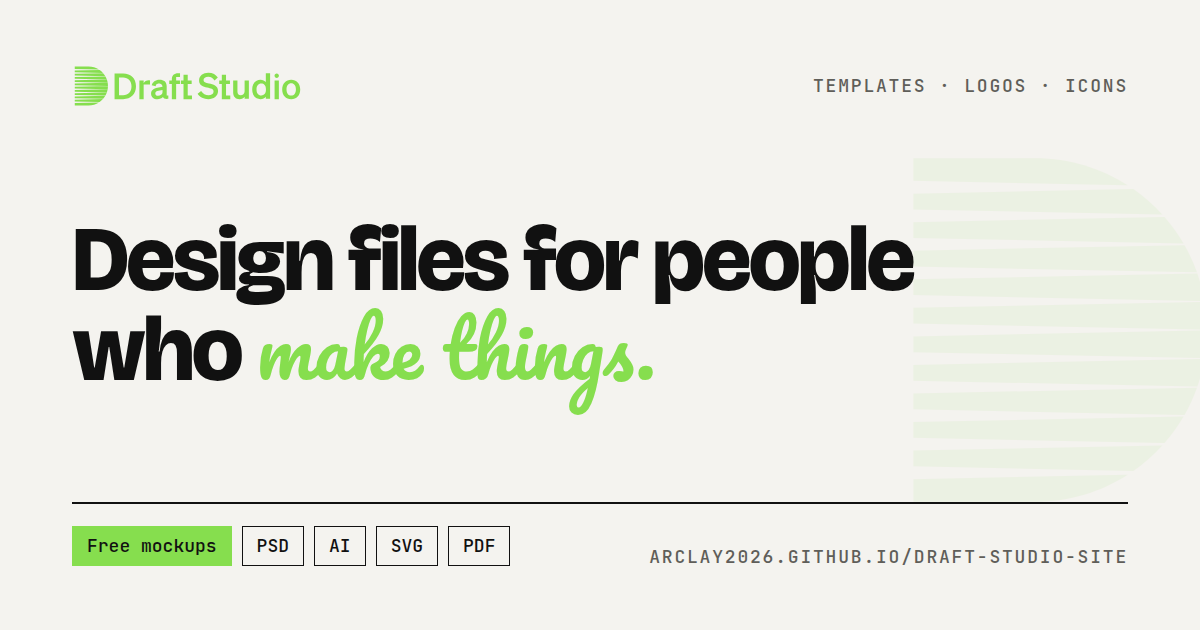
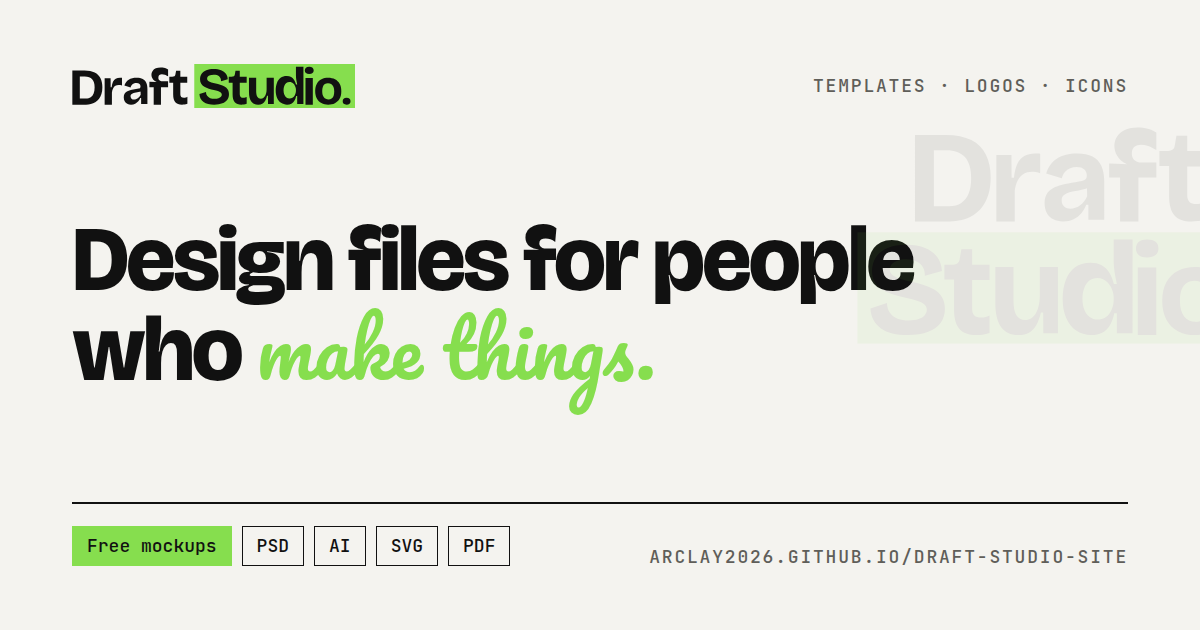
Replace the striped D with the new stacked brand mark site-wide
Crop the uploaded light/dark brand marks into assets/logo-mark(-dark).svg
and use them for the 3D seal (swaps with the theme, subtler extrusion),
the creator card, the QR maker's mark button, the favicon and the
link-preview image. Originals kept in assets/brand/.

Claude-Session: https://claude.ai/code/session_019HhhZ4dCFMmcVzfwBYgkR3

Changed region(s): [[0.0617, 0.0905, 0.3083, 0.181]]

diff --git a/index.html b/index.html
@@ -22,7 +22,7 @@
 <link rel="preconnect" href="https://fonts.googleapis.com">
 <link rel="preconnect" href="https://fonts.gstatic.com" crossorigin>
 <link href="https://fonts.googleapis.com/css2?family=Bricolage+Grotesque:opsz,wght@12..96,400..800&family=Pacifico&family=JetBrains+Mono:wght@400;500&display=swap" rel="stylesheet">
-<link rel="stylesheet" href="css/archive.css?v=537a0c07a1">
+<link rel="stylesheet" href="css/archive.css?v=c94d05d58d">
 </head>
 <body data-page="home">
 <a class="skip" href="#main">Skip to content</a>
@@ -58,7 +58,7 @@
       <span class="wall-caption vlabel label" aria-hidden="true">Plates in motion — hover to pause</span>
       <div class="seal" aria-hidden="true">
         <svg class="seal-ring" viewBox="0 0 156 156"><defs><path id="ring" d="M78,78 m-64,0 a64,64 0 1,1 128,0 a64,64 0 1,1 -128,0"/></defs><text><textPath href="#ring">DRAFT STUDIO ✦ OPEN ARCHIVE ✦ VOL. 01 ✦ </textPath></text></svg>
-        <div class="seal-core"><div class="logo3d-obj" data-src="assets/logo-mark.svg"></div></div>
+        <div class="seal-core"><div class="logo3d-obj" data-src="assets/logo-mark.svg" data-src-dark="assets/logo-mark-dark.svg"></div></div>
       </div>
     </div>
   </section>
@@ -137,7 +137,7 @@
     <div class="studio" style="margin-top:var(--s6)">
       <blockquote data-reveal>“Good templates are <b>starting points,</b> not shortcuts. Take them apart. Make them yours.”</blockquote>
       <div class="creator" data-reveal>
-        <div class="creator-top"><div class="mark"><img src="assets/logo-mark.svg" alt=""></div><div><p class="label">Creator</p><p class="h3" data-site="name">Draft Studio</p><p class="muted" style="font-size:14px">Independent design studio</p></div></div>
+        <div class="creator-top"><div class="mark"><img class="logo-light" src="assets/logo-mark.svg" alt=""><img class="logo-dark" src="assets/logo-mark-dark.svg" alt=""></div><div><p class="label">Creator</p><p class="h3" data-site="name">Draft Studio</p><p class="muted" style="font-size:14px">Independent design studio</p></div></div>
         <div class="creator-stats" id="creator-stats"></div>
         <div class="creator-cta"><a class="btn btn-signal" href="https://wa.me/27736684875?text=Hi%20Draft%20Studio%2C%20I%27d%20like%20to%20order%20a%20custom%20design." target="_blank" rel="noopener" data-magnetic>Order a Custom design <span class="arrow arrow-right">→</span></a><a class="btn" href="templates.html">Browse work</a></div>
       </div>
@@ -168,7 +168,7 @@
 </nav>
 
 <script>/* always load the newest catalog, never a cached copy */document.write('<script src="js/catalog.js?v=' + Date.now() + '"><\/script>');</script>
-<script src="js/core.js?v=2c647046c1"></script>
-<script src="js/home.js?v=a3c71c95a1"></script>
+<script src="js/core.js?v=9dc045d575"></script>
+<script src="js/home.js?v=3204076251"></script>
 </body>
 </html>

diff --git a/js/core.js b/js/core.js
@@ -688,7 +688,15 @@
   DS.build3d = function (obj, opts) {
     if (!obj) return;
     opts = opts || {};
-    var src = obj.getAttribute("data-src"), L = opts.layers || 18, gap = opts.gap || 0.9, html = "";
+    // The dark-theme version (data-src-dark) is used, and swapped in, while the theme is dark
+    function pick() {
+      var dark = document.documentElement.getAttribute("data-theme") === "dark";
+      return (dark && obj.getAttribute("data-src-dark")) || obj.getAttribute("data-src");
+    }
+    if (obj.getAttribute("data-src-dark")) new MutationObserver(function () {
+      var s = pick(); $all("img", obj).forEach(function (i) { i.setAttribute("src", s); });
+    }).observe(document.documentElement, { attributes: true, attributeFilter: ["data-theme"] });
+    var src = pick(), L = opts.layers || 18, gap = opts.gap || 0.9, html = "";
     for (var n = L; n >= 0; n--) {
       html += '<img src="' + esc(src) + '" alt="" draggable="false"' + (n ? ' style="transform:translateZ(' + (-n * gap).toFixed(2) + "px);filter:brightness(" + (0.45 + 0.3 * (1 - n / L)).toFixed(2) + ')"' : "") + ">";
     }

diff --git a/qr.html b/qr.html
@@ -22,7 +22,7 @@
 <link rel="preconnect" href="https://fonts.googleapis.com">
 <link rel="preconnect" href="https://fonts.gstatic.com" crossorigin>
 <link href="https://fonts.googleapis.com/css2?family=Bricolage+Grotesque:opsz,wght@12..96,400..800&family=Pacifico&family=JetBrains+Mono:wght@400;500&display=swap" rel="stylesheet">
-<link rel="stylesheet" href="css/archive.css?v=537a0c07a1">
+<link rel="stylesheet" href="css/archive.css?v=c94d05d58d">
 </head>
 <body data-page="qr">
 <a class="skip" href="#main">Skip to content</a>
@@ -147,7 +147,7 @@
 </nav>
 
 <script>/* always load the newest catalog, never a cached copy */document.write('<script src="js/catalog.js?v=' + Date.now() + '"><\/script>');</script>
-<script src="js/core.js?v=2c647046c1"></script>
+<script src="js/core.js?v=9dc045d575"></script>
 <script src="js/vendor/qrcode.js"></script>
 <script src="js/qr.js?v=6620e46f25"></script>
 </body>

diff --git a/templates.html b/templates.html
@@ -22,7 +22,7 @@
 <link rel="preconnect" href="https://fonts.googleapis.com">
 <link rel="preconnect" href="https://fonts.gstatic.com" crossorigin>
 <link href="https://fonts.googleapis.com/css2?family=Bricolage+Grotesque:opsz,wght@12..96,400..800&family=Pacifico&family=JetBrains+Mono:wght@400;500&display=swap" rel="stylesheet">
-<link rel="stylesheet" href="css/archive.css?v=537a0c07a1">
+<link rel="stylesheet" href="css/archive.css?v=c94d05d58d">
 </head>
 <body data-page="browse" data-type="template">
 <a class="skip" href="#main">Skip to content</a>
@@ -83,7 +83,7 @@
 </nav>
 
 <script>/* always load the newest catalog, never a cached copy */document.write('<script src="js/catalog.js?v=' + Date.now() + '"><\/script>');</script>
-<script src="js/core.js?v=2c647046c1"></script>
+<script src="js/core.js?v=9dc045d575"></script>
 <script src="js/browse.js?v=0df7b171d5"></script>
 </body>
 </html>

diff --git a/logos.html b/logos.html
@@ -22,7 +22,7 @@
 <link rel="preconnect" href="https://fonts.googleapis.com">
 <link rel="preconnect" href="https://fonts.gstatic.com" crossorigin>
 <link href="https://fonts.googleapis.com/css2?family=Bricolage+Grotesque:opsz,wght@12..96,400..800&family=Pacifico&family=JetBrains+Mono:wght@400;500&display=swap" rel="stylesheet">
-<link rel="stylesheet" href="css/archive.css?v=537a0c07a1">
+<link rel="stylesheet" href="css/archive.css?v=c94d05d58d">
 </head>
 <body data-page="browse" data-type="logo">
 <a class="skip" href="#main">Skip to content</a>
@@ -83,7 +83,7 @@
 </nav>
 
 <script>/* always load the newest catalog, never a cached copy */document.write('<script src="js/catalog.js?v=' + Date.now() + '"><\/script>');</script>
-<script src="js/core.js?v=2c647046c1"></script>
+<script src="js/core.js?v=9dc045d575"></script>
 <script src="js/browse.js?v=0df7b171d5"></script>
 </body>
 </html>

diff --git a/palettes.html b/palettes.html
@@ -22,7 +22,7 @@
 <link rel="preconnect" href="https://fonts.googleapis.com">
 <link rel="preconnect" href="https://fonts.gstatic.com" crossorigin>
 <link href="https://fonts.googleapis.com/css2?family=Bricolage+Grotesque:opsz,wght@12..96,400..800&family=Pacifico&family=JetBrains+Mono:wght@400;500&display=swap" rel="stylesheet">
-<link rel="stylesheet" href="css/archive.css?v=537a0c07a1">
+<link rel="stylesheet" href="css/archive.css?v=c94d05d58d">
 </head>
 <body data-page="palettes">
 <a class="skip" href="#main">Skip to content</a>
@@ -110,7 +110,7 @@
 </nav>
 
 <script>/* always load the newest catalog, never a cached copy */document.write('<script src="js/catalog.js?v=' + Date.now() + '"><\/script>');</script>
-<script src="js/core.js?v=2c647046c1"></script>
+<script src="js/core.js?v=9dc045d575"></script>
 <script src="js/palettes.js?v=83e73d4196"></script>
 </body>
 </html>

diff --git a/student.html b/student.html
@@ -22,7 +22,7 @@
 <link rel="preconnect" href="https://fonts.googleapis.com">
 <link rel="preconnect" href="https://fonts.gstatic.com" crossorigin>
 <link href="https://fonts.googleapis.com/css2?family=Bricolage+Grotesque:opsz,wght@12..96,400..800&family=Pacifico&family=JetBrains+Mono:wght@400;500&display=swap" rel="stylesheet">
-<link rel="stylesheet" href="css/archive.css?v=537a0c07a1">
+<link rel="stylesheet" href="css/archive.css?v=c94d05d58d">
 </head>
 <body data-page="student">
 <a class="skip" href="#main">Skip to content</a>
@@ -64,7 +64,7 @@
 </nav>
 
 <script>/* always load the newest catalog, never a cached copy */document.write('<script src="js/catalog.js?v=' + Date.now() + '"><\/script>');</script>
-<script src="js/core.js?v=2c647046c1"></script>
+<script src="js/core.js?v=9dc045d575"></script>
 <script src="js/student.js?v=cdd0d36c39"></script>
 </body>
 </html>

diff --git a/icons.html b/icons.html
@@ -22,7 +22,7 @@
 <link rel="preconnect" href="https://fonts.googleapis.com">
 <link rel="preconnect" href="https://fonts.gstatic.com" crossorigin>
 <link href="https://fonts.googleapis.com/css2?family=Bricolage+Grotesque:opsz,wght@12..96,400..800&family=Pacifico&family=JetBrains+Mono:wght@400;500&display=swap" rel="stylesheet">
-<link rel="stylesheet" href="css/archive.css?v=537a0c07a1">
+<link rel="stylesheet" href="css/archive.css?v=c94d05d58d">
 </head>
 <body data-page="icons">
 <a class="skip" href="#main">Skip to content</a>
@@ -100,7 +100,7 @@
 </nav>
 
 <script>/* always load the newest catalog, never a cached copy */document.write('<script src="js/catalog.js?v=' + Date.now() + '"><\/script>');</script>
-<script src="js/core.js?v=2c647046c1"></script>
+<script src="js/core.js?v=9dc045d575"></script>
 <script src="js/icons.js?v=15a8471bc7"></script>
 </body>
 </html>

diff --git a/start.html b/start.html
@@ -22,7 +22,7 @@
 <link rel="preconnect" href="https://fonts.googleapis.com">
 <link rel="preconnect" href="https://fonts.gstatic.com" crossorigin>
 <link href="https://fonts.googleapis.com/css2?family=Bricolage+Grotesque:opsz,wght@12..96,400..800&family=Pacifico&family=JetBrains+Mono:wght@400;500&display=swap" rel="stylesheet">
-<link rel="stylesheet" href="css/archive.css?v=537a0c07a1">
+<link rel="stylesheet" href="css/archive.css?v=c94d05d58d">
 </head>
 <body data-page="start">
 <a class="skip" href="#main">Skip to content</a>
@@ -191,7 +191,7 @@
 </nav>
 
 <script>/* always load the newest catalog, never a cached copy */document.write('<script src="js/catalog.js?v=' + Date.now() + '"><\/script>');</script>
-<script src="js/core.js?v=2c647046c1"></script>
+<script src="js/core.js?v=9dc045d575"></script>
 <script src="js/start.js?v=370197162d"></script>
 </body>
 </html>

diff --git a/fonts.html b/fonts.html
@@ -22,7 +22,7 @@
 <link rel="preconnect" href="https://fonts.googleapis.com">
 <link rel="preconnect" href="https://fonts.gstatic.com" crossorigin>
 <link href="https://fonts.googleapis.com/css2?family=Bricolage+Grotesque:opsz,wght@12..96,400..800&family=Pacifico&family=JetBrains+Mono:wght@400;500&display=swap" rel="stylesheet">
-<link rel="stylesheet" href="css/archive.css?v=537a0c07a1">
+<link rel="stylesheet" href="css/archive.css?v=c94d05d58d">
 </head>
 <body data-page="fonts">
 <a class="skip" href="#main">Skip to content</a>
@@ -91,7 +91,7 @@
 </nav>
 
 <script>/* always load the newest catalog, never a cached copy */document.write('<script src="js/catalog.js?v=' + Date.now() + '"><\/script>');</script>
-<script src="js/core.js?v=2c647046c1"></script>
+<script src="js/core.js?v=9dc045d575"></script>
 <script src="js/fonts.js?v=239cefd913"></script>
 </body>
 </html>

diff --git a/item.html b/item.html
@@ -22,7 +22,7 @@
 <link rel="preconnect" href="https://fonts.googleapis.com">
 <link rel="preconnect" href="https://fonts.gstatic.com" crossorigin>
 <link href="https://fonts.googleapis.com/css2?family=Bricolage+Grotesque:opsz,wght@12..96,400..800&family=Pacifico&family=JetBrains+Mono:wght@400;500&display=swap" rel="stylesheet">
-<link rel="stylesheet" href="css/archive.css?v=537a0c07a1">
+<link rel="stylesheet" href="css/archive.css?v=c94d05d58d">
 </head>
 <body data-page="item">
 <a class="skip" href="#main">Skip to content</a>
@@ -63,7 +63,7 @@
 </nav>
 
 <script>/* always load the newest catalog, never a cached copy */document.write('<script src="js/catalog.js?v=' + Date.now() + '"><\/script>');</script>
-<script src="js/core.js?v=2c647046c1"></script>
+<script src="js/core.js?v=9dc045d575"></script>
 <script src="js/item.js?v=5382854c05"></script>
 </body>
 </html>

diff --git a/eye.html b/eye.html
@@ -22,7 +22,7 @@
 <link rel="preconnect" href="https://fonts.googleapis.com">
 <link rel="preconnect" href="https://fonts.gstatic.com" crossorigin>
 <link href="https://fonts.googleapis.com/css2?family=Bricolage+Grotesque:opsz,wght@12..96,400..800&family=Pacifico&family=JetBrains+Mono:wght@400;500&display=swap" rel="stylesheet">
-<link rel="stylesheet" href="css/archive.css?v=537a0c07a1">
+<link rel="stylesheet" href="css/archive.css?v=c94d05d58d">
 </head>
 <body data-page="eye">
 <a class="skip" href="#main">Skip to content</a>
@@ -70,7 +70,7 @@
 </nav>
 
 <script>/* always load the newest catalog, never a cached copy */document.write('<script src="js/catalog.js?v=' + Date.now() + '"><\/script>');</script>
-<script src="js/core.js?v=2c647046c1"></script>
+<script src="js/core.js?v=9dc045d575"></script>
 <script src="js/eye.js?v=9537bc81cc"></script>
 </body>
 </html>
